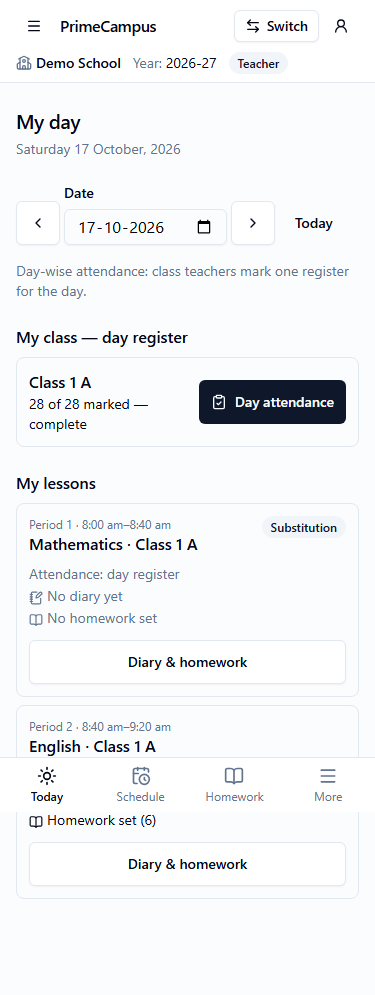
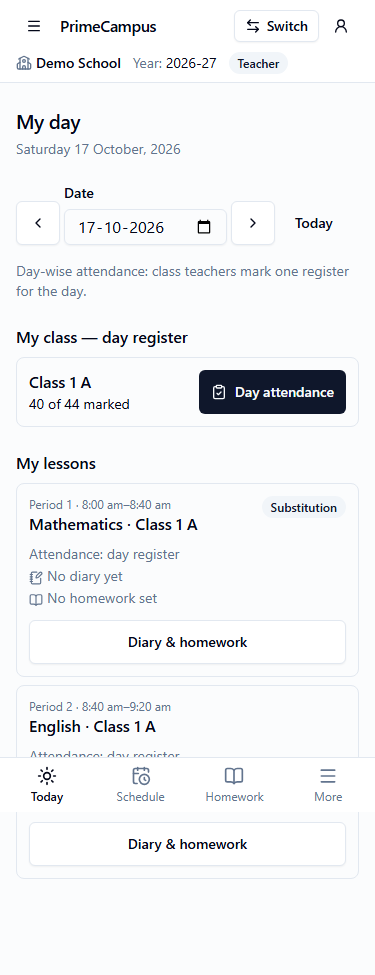
M2X: module report; m2-screens from the last live run; steady stale-deploy test
- docs/reports/M2X.md: every §3 item ✅ or ❌ with the reason, per module;
  full live suite: runs 3 and 4 back to back, 74/74 each (7.1 / 7.7 min),
  earlier failures listed; Demo School data; bugs found and fixed.
- m2-screens/: from the last full live run.
- stale-deploy.test.tsx: the reload runs in an effect just after the
  "loading the latest version" render; the test now waits for it (it
  failed once in about 10 suite runs). 0 failures in 10 repeats.

diff --git a/tests/unit/stale-deploy.test.tsx b/tests/unit/stale-deploy.test.tsx
@@ -1,5 +1,5 @@
 import { QueryClient, QueryClientProvider } from '@tanstack/react-query';
-import { render, screen } from '@testing-library/react';
+import { render, screen, waitFor } from '@testing-library/react';
 import { createMemoryRouter, RouterProvider } from 'react-router';
 import { afterEach, describe, expect, it, vi } from 'vitest';
 import { RouteError } from '@/app/RouteError';
@@ -136,7 +136,8 @@ describe('stale deploy recovery', () => {
     vi.spyOn(console, 'warn').mockImplementation(() => undefined);
     renderFailingLazyRoute();
     expect(await screen.findByText(/loading the latest version/)).toBeInTheDocument();
-    expect(page.replaced).toHaveLength(1);
+    // the navigation itself runs in an effect, just after that render
+    await waitFor(() => expect(page.replaced).toHaveLength(1));
   });
 
   it('…and if it fails again right after that reload, shows the update page with a Reload button instead', async () => {

diff --git a/docs/reports/M2X.md b/docs/reports/M2X.md
@@ -1,0 +1,256 @@
+# M2X — Close-out of M0 … M2: module report
+
+Branch: `module/m2x-closeout` (from `main` at `9df3793`) · Date: 19 Oct 2026 · Brief: `docs/modules/M2X.md`
+
+This report **supersedes item by item** the "Not verified" / "Known gaps" sections of `M0.md`, `M1.md`,
+`M1b.md` and `M2.md` (those sections are not edited). The only change to an earlier report is the M2
+mismatch list (items 2, 4, 5 marked resolved by migration 2310), as the brief asks.
+
+No backend changes (no migration, no Edge Function). Migration 2310 was already live (checked with
+`list_migrations`).
+
+## Summary
+
+- **§0 Repo hygiene:** `.gitattributes` gained `*.pdf binary` (the LF rules were already committed in
+  `7572594`; renormalize changed nothing); `.nvmrc` = `22`; `overrides.uuid = ^11.1.1` → **`npm audit`:
+  0 vulnerabilities**. exceljs still works with uuid 11: all M1b parse/wizard tests pass on Node 22
+  (including the 4 that failed under Node 20 in M2), plus a new round trip through the only exceljs path
+  that calls uuid (a data-bar rule). Note: the browser loads exceljs's prebuilt `dist/exceljs.min.js`,
+  which bundles its own uuid 8; exceljs only calls `uuidv4()` without a buffer, which the advisory
+  (v3/v5/v6 with a buffer) doesn't cover.
+- **§1 Migration 2310 adopted:** types regenerated from the live project (via the Supabase MCP
+  generator; 138 RPC wrappers). Field errors under the field (one helper, 14 forms); "Clear default
+  salary"; versioned timetable activation (+ the replay reply, which our schema rejected — fixed);
+  DUPLICATE-based create checks for copy timetable / new draft / homework (+ "Open it"); homework roster
+  `can_check`; Teacher Today line. M2 report mismatches 2, 4, 5 marked resolved.
+- **§2 375px rows:** the admission number is always shown in full (wraps, never truncated; no tooltip).
+- **§3 Live verification:** new specs `m2x-m0`, `m2x-headers`, `m2x-m1`, `m2x-m1b`, `m2x-m2`,
+  `m2x-keyboard`; `m2.spec.ts` adjusted for the period-wise day. Every item is ✅ or ❌ with a reason
+  (tables below).
+- **Owner requests during the module:** static-assets-only deploy kept; `/assets` 404 marked ❌; instead
+  the app **recovers from a stale deploy** by reloading once (`vite:preloadError` and failed lazy route
+  imports; loop guard without browser storage). wrangler pinned as a devDependency.
+- **Bugs found by the live verification and fixed** (each with a unit test where it is code):
+  1. `activate_timetable` repeat (`replayed: true`, no `next_step`) was reported as an unexpected shape.
+  2. **CSP:** every page load reported a `script-src eval` violation — Zod 4 probes `new Function` when
+     it builds object schemas. `src/lib/zod.ts` sets `jitless`; all imports use it; ESLint enforces it.
+  3. **Weekly pattern** for a staff group with nothing saved (group nor default): the dialog showed a
+     made-up week as "School default" and saved nothing, while the calendar showed every day as a weekly
+     off. Such days now say "Not set yet" and are saved.
+  4. **Offline search showed the old results** (`keepPreviousData`): "Showing 50 students" for a new,
+     un-run search. `DataState` now shows "You are offline" for a paused new query.
+  5. **Offline saves were silently paused** ("Saving…", sent later on their own): mutations now use
+     `networkMode: 'always'` → immediate "You appear to be offline… Nothing was changed".
+  6. **Import "No rows were processed" → Reload** left the notice up; it now returns to the job's state.
+  7. **Dialog focus:** dialogs opened from state (no `DialogTrigger`) dropped the focus to `<body>` on
+     close; `DialogContent` now returns it to the opener.
+  8. `m2.spec.ts` test 2 (period marking, never run before) had an ambiguous "Saved" check and a
+     non-alternating change; fixed.
+
+## "Done when" checklist
+
+| Item | Status | How |
+|---|---|---|
+| `typecheck`, `lint`, `test`, `build`, `check:bundle` on Node 22 | ✅ | Node v22.19.0. `test`: **21 files / 326 passed**. `lint` = ESLint (incl. React Compiler rules, new `zod` import rule) + `prettier --check`. `check:bundle`: initial JS **232.2 KB gzip** (budget 300 KB); spreadsheet libraries lazy. |
+| `npm audit` 0 vulnerabilities | ✅ | `found 0 vulnerabilities` (with uuid override and wrangler 4.149.0). |
+| No `.from(` | ✅ | `grep -rn "\.from(" src tests` (ignoring `Array.from`/`Buffer.from`): none. Every spec's network audit: only `/rest/v1/rpc/*`, `/auth/v1/*`, `functions/v1/accounts`; `p_ctx_rev` on every school RPC. |
+| No browser storage | ✅ | `grep -rn "localStorage\|sessionStorage\|indexedDB" src`: none (the stale-deploy loop guard uses a URL marker, not storage). |
+| Every §3 item ✅ or ❌-with-reason, a table per module | ✅ | Below. |
+| Full live suite passed twice in a row | ✅ | Runs 3 and 4: **74 / 74** passed each (7.1 and 7.7 min). Earlier runs 1–2 and their failures are listed under "Full live suite". |
+| Demo School data created by this module listed | ✅ | Below, incl. the attendance-mode rows. |
+| Earlier "Not verified" sections not edited | ✅ | Only the M2 mismatch list was annotated (brief §1). |
+
+## §3 Live verification — M0
+
+| # | Item | Result | Evidence |
+|---|---|---|---|
+| 1 | Multi-role chooser and switching (`demo.teachparent` Teacher ↔ Parent); switching clears data; other tabs follow | ✅ live | `m2x-m0` M0-1: chooser shows Teacher + the Parent's child (Kabir Rao). Tab A switches Teacher→Parent; tab B (Teacher-only screen open) follows: summary shows Parent/Kabir Rao, the "changed" notice, same revision as tab A; **no query of the old revision holds data** (its open screen re-queries under the old revision while the new context loads; the server refuses those with STALE_CONTEXT, so empty entries may remain — asserted none has data, via a test-only hook). Switching back in tab B makes tab A follow. |
+| 2 | `must_change_password` incl. the re-sign-in fallback | ✅ live (forced) | M0-2: temp password → only `/change-password` reachable. The fallback is forced: the first `bootstrap_account` after `change_password` is answered with 401 `PGRST301` ("JWT expired"), as when Auth revokes the session; the app signed in again with the new password (exactly one `/auth/v1/token` call) and reached the chooser. Temp password no longer works. |
+| 3 | Security headers + SPA fallback under `npx wrangler dev`; no CSP violations | ✅ headers + fallback + CSP · ❌ `/assets/x.js` → 404 | `m2x-headers` (builds production `dist`, serves it with `wrangler dev`, nothing deployed). Every header of the `/*` rule on `/` and on a reloaded nested route (200, app boots). A real asset: `immutable` + all headers. **CSP: 0 violations** across 15 screens as signed-in Admin (after fixing the Zod eval probe). **❌ missing `/assets/x.js` returns 200 + `index.html`:** with static assets only (no Worker), Cloudflare's SPA fallback answers every unknown path, script requests included (confirmed in the asset-worker source and with a real browser). Owner decision: keep static-assets-only. The browser refuses to run it (nosniff + strict MIME, asserted) and the app reloads once to fetch the current assets (stale-deploy recovery). Also: the `/index.html → Cache-Control: no-cache` rule only meets the redirect `/index.html → /`; `/` gets Cloudflare's own `public, max-age=0, must-revalidate` (same effect). |
+
+## §3 Live verification — M1
+
+| Item | Result | Evidence (`m2x-m1`, 8 passed) |
+|---|---|---|
+| School profile save | ✅ | M1-1: city alternates per run, saved, persists after reload. |
+| Attendance-mode change | ✅ | `m2x-m2` M2-1 (Setup → Attendance mode, both rows). |
+| Staff salary rate + bank save | ✅ | M1-1: run-unique future rate for Lata Iyer; bank details saved, number masked (last 4). |
+| Ending a teaching assignment | ✅ | M1-1: a one-day Science assignment for Meera Rao in Class 2 B, starting on the first free day after earlier runs' rows (the same teacher/section/subject may not overlap — the 2310 message "This teacher already teaches this subject…" showed when it did), ended → "From X to X". |
+| Admissions-duty toggle | ✅ | M1-2: on → `demo.teacher` gets Admissions (nav + page); off → access gone. |
+| Unlinking a login | ✅ | M1-3: `demo.principal` unlinked from Lata Iyer's staff record, then linked again. |
+| Sensitive-identifiers save | ✅ | M1-4: run-unique Aadhaar saved; the same number for another student → **2310 DUPLICATE shown under the Aadhaar field** (not a form error). |
+| Guardian edit / add | ✅ | M1-4: "Add → New person" (father) linked; occupation edited. |
+| Placement move | ✅ | M1-4: Move 1 selected → Class 2 B from today → profile history. |
+| Enquiry edit | ✅ | M1-5: child's name + class wanted, persists. |
+| Disable / enable a login, incl. FORBIDDEN for a non-admin | ✅ | M1-3: disabled `demo.principal` can't sign in; enabled again. The Principal calling Edge `set_status` → FORBIDDEN; `/users` → "You don't have access". |
+| Staff calendar tab and staff-group calendars | ✅ (+ bug fixed) | M1-6: Staff tab → "Office staff": Saturday alternates working/weekly off; the default staff calendar is unchanged. Found bug 3 (above). |
+| "Load more" on students and enquiries (> 50) | ✅ | M1-4/M1-5: students topped up through the importer, enquiries through the UI; 50 shown, Load more adds the rest. |
+| Principal login: read-only views, FORBIDDEN writes | ✅ | M1-3: `demo.principal` provisioned **through the UI** (temp password shown once, forced change); students/profile/classes/staff without write controls; `save_class`, `update_student`, `save_staff` FORBIDDEN. M2 screens: `m2x-m2` M2-10. |
+| Offline on one M1 list and one M1 form | ✅ (+ 2 bugs fixed) | M1-7 (`setOffline`): a new students search offline → "You are offline" (was: the previous 50 rows); school profile saved offline → "You appear to be offline… Nothing was changed", input kept (was: silently paused). |
+| Keyboard-only walkthroughs (M1/M1b/M2 reports) | ✅ (+ bug fixed) | `m2x-keyboard` (4 passed): sign-in and navigation with Tab/Enter (visible focus); dialog Enter/Escape with focus kept inside and **returned to the opener** (bug 7 fixed); row action menu; a day register with ↓/↑/End, letter shortcuts, Enter to save. |
+| Screen-reader checks | ❌ | Needs a person with NVDA/TalkBack/VoiceOver; not automatable here. The structure it relies on (labels, roles, live regions, focus) is what the specs assert. |
+
+## §3 Live verification — M1b
+
+| Item | Result | Evidence (`m2x-m1b`, 7 passed) |
+|---|---|---|
+| Continue after a real network failure during staging | ✅ | M1b-1: 1,200 staff rows (3 batches); the browser goes offline after batch 1 → "Continue uploading" → all checked; closed, nothing imported. |
+| … and during commit | ✅ | M1b-2: the browser goes offline exactly as the 2nd commit chunk is sent (a real network failure) → "Some rows may already be imported — choose Continue" → Continue → done. |
+| Restore a removed row | ✅ | M1b-2. |
+| The "no rows processed" guard | ✅ (forced) | M1b-3: one `commit_import_chunk` reply rewritten to `processed: []` (the state can't be produced on demand) → the notice → Reload → the job's real state (bug 6 fixed). |
+| "Load more" on a job with > 100 rows | ✅ | M1b-2: 110 rows → 100, Load more → 110. |
+| Windows-1252 CSV | ✅ | M1b-4: accents, en dash, ’ intact (checked in the row and its Edit dialog). |
+| Lossy UTF-8 CSV | ✅ | M1b-4: Telugu name intact; "…show as � in row 3" warning; the row shows �. |
+| Workbook with a hidden first sheet | ✅ | M1b-4: the first visible sheet is read. |
+| Formulas with empty results | ✅ | M1b-4: `IF(1=1,"","x")` → blank optional cell, row Ready. |
+| Large file 10,000 rows / ~5 MB staged + validated, closed without committing; parse time + memory | ✅ | M1b-5: **4.80 MB, 10,000 students rows: parse + column matching 0.7–0.9 s; upload + server check 30.9 s / 55.9 s / 41.0 s (three runs)**; closed, no student created. Main-thread JS heap 13 → 13 MB (parsing runs in a Web Worker; `performance.memory` doesn't see worker memory — **worker memory not measured**). |
+| Parent-mobile alias; skipped empty rows; leave-mid-upload confirmation (M1b known gaps) | ✅ | M1b-4: "Mobile" auto-matched to Parent 1 mobile; a row with data only in an unimported column skipped and named (fully blank rows are dropped while reading); M1b-5: leaving during the upload asks first, Stay keeps it going. |
+| Main-thread parsing fallback (M1b known gap) | ✅ | M1b-7: with `Worker` missing, and with a Worker that can't start, the file is parsed on the main thread. |
+| Disabled Import for a role without the dataset capability | ❌ | No live role has `imports.manage` without the dataset capability (only Operator and Admin have it, and they have all). Covered by the component test in `m1b-pages`. |
+| Real school spreadsheets | ❌ | None available (PRD §20 asks for anonymized samples before live imports). |
+| Partly uploaded imports can't be detected | ❌ (backend) | The server keeps no "expected row count" for a job; needs a backend change (unchanged from M1b). |
+
+## §3 Live verification — M2
+
+Attendance mode (Setup → Attendance mode, first run): **period-wise from 19 Oct 2026**, **day-wise again
+from 20 Oct 2026**. Both rows are permanent; re-runs see the 2310 DUPLICATE under "Starts on".
+
+| Item | Result | Evidence |
+|---|---|---|
+| Period-wise: teacher marks a period lesson (mark remaining present + 2 exceptions) | ✅ | `m2.spec.ts` test 2 on 19 Oct (it never ran before): Ravi Kumar's English lesson. |
+| Second tab changes a student → conflict shown and resolved | ✅ | `m2.spec.ts` test 2: "Someone else saved …" → Keep theirs. |
+| A substitute marks a covered period lesson | ✅ | `m2x-m2` M2-2: Meera Rao absent on 19 Oct → Ravi Kumar substitutes her Period 1 → marks it from Today (not blocked). |
+| Parent sees real data (attendance record, diary note, checked homework); not the other child by URL | ✅ | M2-3 (19 Oct): Aarav's record lists the period lessons; the diary note; the homework "Completed"; `/students/<Anaya>` → no access (server FORBIDDEN also in `m2.spec.ts` test 7). |
+| Lesson cancel / restore / change subject | ✅ | M2-4 (next Monday, Class 1 A Period 1; subject changed back afterwards). |
+| Remove a substitute | ✅ | M2-4. |
+| Override reason after a clash CONFLICT | ✅ | M2-4: Meera Rao for Class 1 A Period 3 while she teaches Class 1 B ("Has another lesson then"; Class 1 B's lessons generated with Update lessons first) → reason → "Assign anyway". |
+| Attendance overview | ✅ | M2-5 (19 Oct). |
+| Diary list incl. "Missing diary only" | ✅ | M2-5. |
+| Homework edit and cancel | ✅ | M2-5. |
+| Discard a draft | ✅ | M2-6. |
+| Copy a timetable to another section + the DUPLICATE "Open it" path | ✅ | M2-6: copy to Class 2 B; the same copy again → "This section already has a draft starting on …" → Open it opens that draft; discarded. |
+| Leave-with-unsaved-marks dialog | ✅ | M2-7: Stay keeps the change; Leave without saving leaves. |
+| "Load more" on homework and diary lists if > 50 rows | not applicable | M2-8: Demo School has 12–26 homework rows (each full run adds about 3) and 16 diary rows (63 days) — one page. Paging is unit-tested (M2). |
+| Principal on M2 screens (M2 report) | ✅ | M2-10: overview, staff register (no Save), homework checks read-only; `mark_staff_attendance` / `mark_student_attendance` FORBIDDEN. |
+| All `m2-screens/` refreshed live | ✅ | `m2.spec.ts` run on 19 Oct rewrote all five (`375-teacher-today`, `375-marking-roster`, `375-timetable-grid`, `375-parent-child-home`, `375-homework-roster`). The roster rows show full admission numbers; names of the M1b test students truncate because their roll numbers are long. |
+
+`m2.spec.ts` changes: PAST is the latest **day-wise** working day; test 2 uses the latest period-wise
+day; test 7 no longer asserts that Aarav has no attendance/diary (he has, since 19 Oct).
+`m2x-m2` M2-2/M2-3 use 19 Oct explicitly, so they also run on later days.
+
+## Full live suite
+
+All specs in `tests/e2e` (M0 6 + M1 12 + M1b 8 + M2-layout 3 (mocked) + M2 9 + M2X: m0 3, headers 4,
+m1 8, m1b 7, m2 10, keyboard 4 = **74 tests**), serial, live backend, Demo School only.
+
+| Run | Result | Duration |
+|---|---|---|
+| 1 | 61 passed, 2 failed, 11 not run | 5.9 min |
+| 2 | 70 passed, 1 failed, 3 not run | 7.4 min |
+| **3** | **74 passed, 0 failed** | **7.1 min** |
+| **4** (right after 3) | **74 passed, 0 failed** | **7.7 min** |
+
+Runs 3 and 4 are the two passing runs in a row. What failed before them:
+- Run 1, `m2x-m2` setup: Supabase answered the Edge `reset_password` with
+  `SUPABASE_EDGE_RUNTIME_SERVICE_DEGRADED` ("Service is temporarily unavailable") — a platform outage.
+- Run 1, `m2x-keyboard` K-2: the test read the focus before Radix restores it (a `setTimeout(0)` after the
+  dialog unmounts). Fixed in the test (it polls); not an app bug.
+- Run 2, `m2.spec.ts` test 5: the homework was set (the dialog closed as on success) but did not appear in
+  the lesson's list within 30 s. Not reproducible (it passed in a separate re-run and in runs 3–4); it came
+  minutes after the Edge degradation above. **Not explained** — recorded as a possible transient backend
+  failure, not as fixed.
+
+## §1 / §2 details
+
+- **Field errors:** `handleSaveError(e, { form, fields })` → `applyServerFieldError` puts a 2310
+  VALIDATION_ERROR/DUPLICATE with `details.field` under that react-hook-form field (aliases for
+  `monthly_salary`, `default_salary`, `family_annual_income`); otherwise the form's error area. Wired into
+  the forms of save_school_profile, save_academic_year, save_class, save_section, save_subject,
+  set_attendance_mode, save_staff_group, save_staff, save_staff_finance (salary + bank), save_guardian
+  (edit + new), update_student, save_student_sensitive. Screens without RHF fields (class subjects, bell
+  schedule, calendar ranges/patterns, teaching assignments, end assignment) show the message in their
+  error area. Unit: DUPLICATE on a class name under Name. Live: the Aadhaar DUPLICATE, the mode DUPLICATE.
+- **Clear default salary:** marks the removal, Save sends `p_clear_default_salary` with the version;
+  emptying the amount is not a removal; "No default salary" vs "₹0.00" in the table.
+- **Timetable / homework creates:** after an uncertain failure the "checking…" step re-sends the same
+  request; DUPLICATE with the existing id = the earlier attempt worked. First-press DUPLICATE: "Open it"
+  (draft) / "Already set for this lesson" (homework). `findCopiedDraft` / `findCreatedHomework` removed.
+- **375px rows:** name on its own line; state badge + reference share line 2 and the reference wraps to
+  its own line when needed. Mocked spec at 72px: day register 66–67px, staff 66–67px, homework
+  60–61px. Known limit (owner-accepted): a 23-character admission number takes two lines (row ≤ 88px,
+  asserted separately).
+
+## Stale-deploy recovery (owner request)
+
+`src/lib/stale-deploy.ts`: `vite:preloadError` and a failed lazy route import (`RouteError`) reload the
+page once. The reload URL carries `__pc_reload=<time>`, removed from the address bar before the router
+reads it; a failure within 60 s of such a reload doesn't reload again — the "PrimeCampus was updated —
+Reload" page is shown. Unit tests (`stale-deploy.test.tsx`): browser messages, marker add/strip, no
+loop, preloadError handled vs. not, a failing lazy route reloads once and stops after.
+
+## Demo School data created by this module
+
+All through the UI unless noted; Demo School only; logins `demo.*` (their passwords are reset every run).
+- **Attendance modes:** period-wise from **2026-10-19**, day-wise from **2026-10-20** (permanent).
+- **Login `demo.principal`** (Principal, linked to Lata Iyer's staff record; ends enabled).
+- Students `M2X<run>-n` ("M2x<run> Pupil…") in Class 2 A (9 on the first run, 2 per run after), one per
+  run moved to Class 2 B, with a second guardian "M2x<run> Father" and an Aadhaar number.
+- Enquiries "M2x<run> Enquirer n" (40 on the first run, 1 per run after); one edited per run.
+- Class "M2X Bulk" with sections B001–B110 in the **non-current** year 2027-28 (once).
+- Lata Iyer: a future-dated salary rate per run and bank details. Meera Rao: one-day Class 2 B Science
+  assignments (ended). Office staff calendar: a weekly pattern (Saturday alternates). School profile city
+  alternates. Teacher admissions duty toggled (ends off).
+- 19 Oct 2026: staff attendance (Meera Rao absent), Ravi Kumar substituting her Period 1, period
+  attendance of Class 1 A Periods 1–2, a diary note and a homework (Aarav: Completed) on Ravi's English
+  lesson. 17 Oct: day-register changes (keyboard test).
+- 26 Oct 2026 (next Monday): Class 1 B lessons generated; Class 1 A Period 1 cancelled/restored/subject
+  changed back; a substitution on Period 3 added and removed; a homework created and cancelled.
+- Timetable drafts copied to Class 2 B and discarded.
+- Import jobs staged and **closed without importing** (staff 1,200 rows; encoding/workbook/alias files;
+  10,000 students rows; no-worker files).
+
+## Not verified / limits (❌ with reason)
+
+- `/assets/x.js` → 404 under static assets only (owner: keep the deploy model; mitigated as above).
+- Screen readers (needs a person with a screen reader).
+- Import disabled for a role without the dataset capability (no such live role; unit-tested).
+- Real school spreadsheets (none available); detecting partly uploaded imports (needs a backend field).
+- Worker memory for the 10,000-row parse (only main-thread heap is measurable from a page).
+- "Load more" on homework/diary live (fewer than 50 rows exist).
+- From M0's notes, unchanged by design: the request id of RPC errors is client-generated (PostgREST
+  exposes none); the container-only CA step for E2E doesn't apply on normal machines.
+
+## Changes outside tests
+
+- `src/lib/save-feedback.ts` (field errors), `src/lib/create-check.ts` (DUPLICATE helpers),
+  `src/lib/dates.ts` (`formatDayMonth`), `src/lib/stale-deploy.ts` (new), `src/lib/zod.ts` (new; every
+  `zod` import switched to it), `src/lib/query-client.ts` (mutations `networkMode: 'always'`).
+- `src/components/shared/{MoneyText,DataState,roster-ui}.tsx`, `src/components/ui/dialog.tsx`.
+- `src/app/{RouteError,router,e2e-hooks}.tsx|ts`, `src/main.tsx`.
+- Features: setup (Classes, SchoolProfile, Subjects, Years, AttendanceMode, Calendar), staff
+  (StaffGroups, StaffFinance, StaffForm, hooks), students (GuardianDialogs, Sensitive, StudentEdit),
+  timetable (Editor, TimetablePage, hooks, new `draft-create.tsx`), homework (FormDialog, Roster, List,
+  hooks), diary (LessonPage), teacher (Today), imports (ImportJobPage).
+- Contracts: `timetable.ts`, `academic.ts`; generated `database.types.ts` + `rpc/functions.ts`.
+- `eslint.config.js` (no direct `zod` import in `src`).
+
+## Tests added / changed
+
+- Unit: `m2x.test.tsx` (new), `stale-deploy.test.tsx` (new), `components.test.tsx` (DataState offline
+  placeholder, dialog focus), `m1-review.test.tsx` (salary message, pattern "Not set yet"),
+  `m1b-pages.test.tsx` (Reload), `m1b-parse.test.ts` (uuid round trip), `m2-review.test.tsx` (re-send
+  flow, activation), `m2-pages.test.tsx` + `m2-fixtures.ts` (`can_check`).
+- E2E: `m2x-m0`, `m2x-headers`, `m2x-m1`, `m2x-m1b`, `m2x-m2`, `m2x-keyboard` (new); helpers `ui.ts`,
+  `imports.ts` (new); `m2.spec.ts`, `m2-layout.spec.ts` (72px, full reference), `globals.d.ts`.
+
+## Dependencies
+
+- `wrangler` **4.149.0** (devDependency, pinned): needed to serve `dist` with `public/_headers` and the
+  SPA fallback exactly as Cloudflare does, locally (`npx wrangler dev`, no deploy). 4.149.0 is the oldest
+  release without the vulnerable `sharp` (4.147.0 added 3 high advisories).
+- `overrides.uuid` `^11.1.1` (for exceljs; no new direct dependency).
+
+## How to run the live suite
+
+`.env.local` (git-ignored) holds `E2E_OPERATOR_USERNAME` / `E2E_OPERATOR_PASSWORD`; export them into the
+shell, then `npx playwright test` (all specs, serial; Demo School only).
